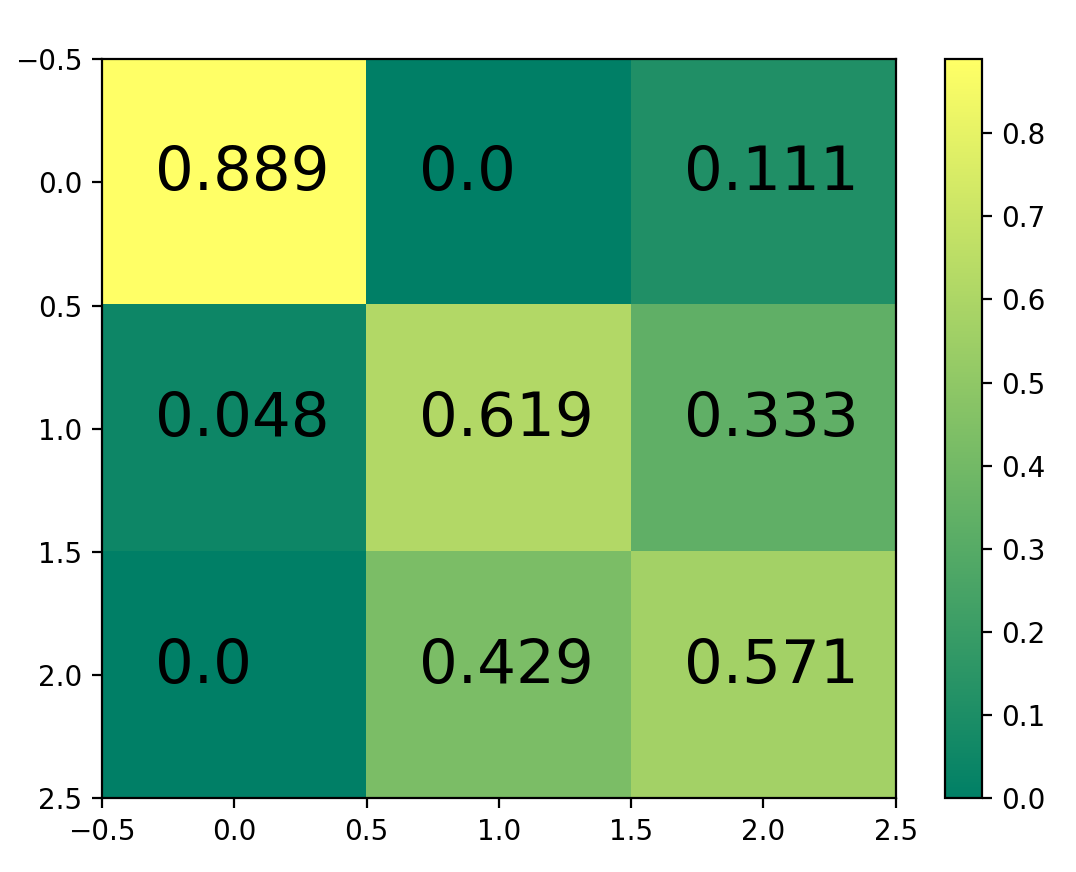
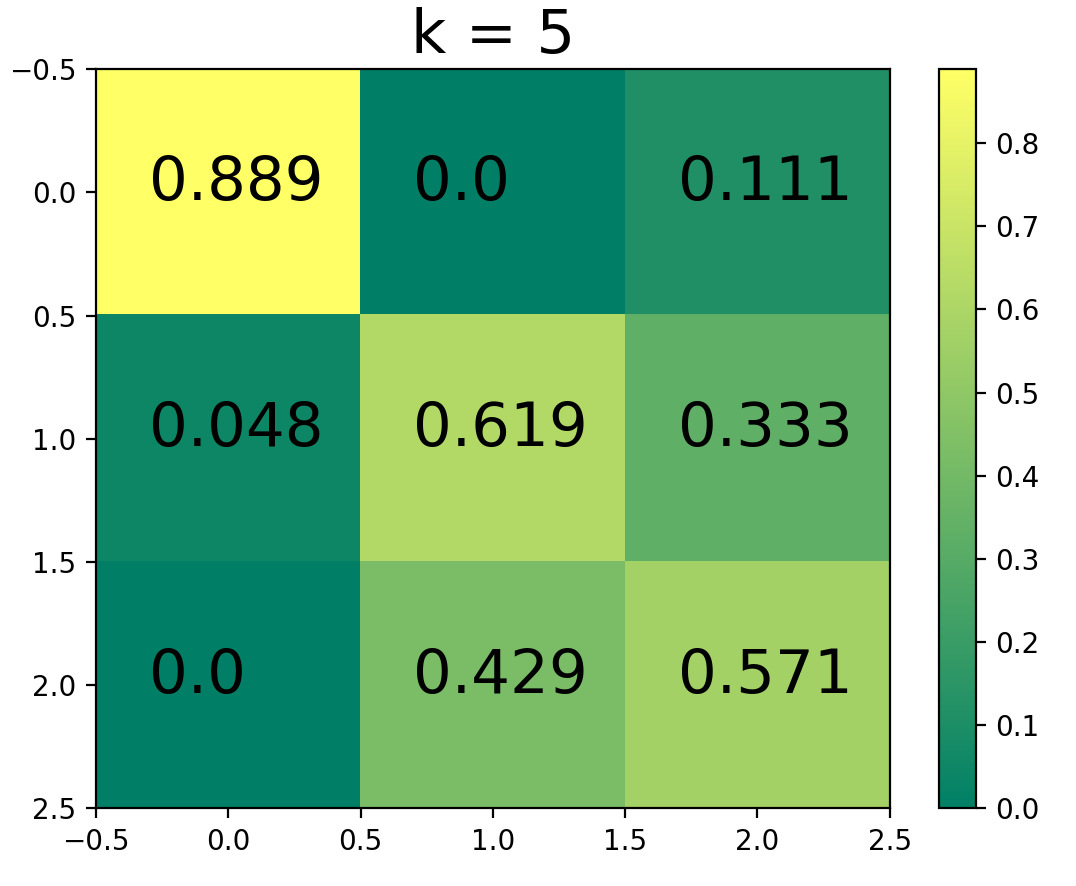
added titles to confusion matrices

diff --git a/wine_classifier.py b/wine_classifier.py
@@ -70,7 +70,7 @@ def calculate_confusion_matrix(gt_labels, pred_labels,classes):
         confusion_mat.append(row)
     confusion_mat = np.row_stack(confusion_mat)
     return confusion_mat
-def plot_matrix(matrix, ax=None):
+def plot_matrix(matrix, title, ax=None):
     if ax is None:
         ax = plt.gca()
     plt.imshow(matrix,cmap=plt.get_cmap('summer'), aspect = 'auto')
@@ -83,6 +83,7 @@ def plot_matrix(matrix, ax=None):
             plt.text(posX-0.3,posY+0.03,text, fontSize=22)
             posX += 1
         posY += 1
+    plt.title(title, fontSize = 22)
     plt.show()
 ################################
 
@@ -155,7 +156,7 @@ def knn(train_set, train_labels, test_set, k, **kwargs):
     confusion_mat = calculate_confusion_matrix(test_labels,predictions,[1,2,3])
     # confusion matrix is for the report
     # print(confusion_mat)
-    # plot_matrix(confusion_mat)
+    # plot_matrix(confusion_mat, "k = " + str(k))
     return classifiedTests
 
 def compute_likelihood(D,mu,var):
@@ -206,8 +207,8 @@ def alternative_classifier(train_set, train_labels, test_set, **kwargs):
         pred = np.argmax(possibilities) + 1
         predictions.append(pred)
     confusion_mat = calculate_confusion_matrix(test_labels,predictions,[1,2,3])
-    plot_matrix(confusion_mat)
-    print(calculate_accuracy(test_labels, predictions))
+    # plot_matrix(confusion_mat, "Naive Bayes")
+    # print(calculate_accuracy(test_labels, predictions))
     return predictions
 
 
@@ -255,7 +256,7 @@ def knn_three_features(train_set, train_labels, test_set, k, **kwargs):
         arr = getColours(i,reduced_train_set)
         ax.scatter(arr[:,0],arr[:,1],arr[:,2],c = class_colours[i],label = 'Class ' + str(i + 1))
     ax.legend()
-    plt.show()
+    # plt.show()
     #knn algorithm
     classifiedTests = [] # stores the result of classification for each data sample
 
@@ -296,7 +297,7 @@ def knn_pca(train_set, train_labels, test_set, k, n_components=2, **kwargs):
         arr = getColours(i,sci_data)
         ax.scatter(arr[:,0],arr[:,1],c = class_colours[i],label = 'Class ' + str(i + 1))
     ax.legend()
-    plt.show()
+    # plt.show()
     #knn algorithm
     classifiedTests = [] # stores the result of classification for each data sample
     reduced_test_set = pca.transform(test_set)
@@ -320,7 +321,7 @@ def knn_pca(train_set, train_labels, test_set, k, n_components=2, **kwargs):
         # find the most common class among the neighbours (found this online)
         majorityClass = max(set(closestNeighbourClasses), key = closestNeighbourClasses.count)
         classifiedTests.append(int(majorityClass))
-    print(calculate_accuracy(test_labels,classifiedTests))
+    # print(calculate_accuracy(test_labels,classifiedTests))
     return classifiedTests
 
 
@@ -353,7 +354,7 @@ if __name__ == '__main__':
     elif mode == 'knn':
         predictions = knn(train_set, train_labels, test_set, args.k)
         print_predictions(predictions)
-        print(calculate_accuracy(test_labels, predictions))
+        # print(calculate_accuracy(test_labels, predictions))
     elif mode == 'alt':
         predictions = alternative_classifier(train_set, train_labels, test_set)
         print_predictions(predictions)
